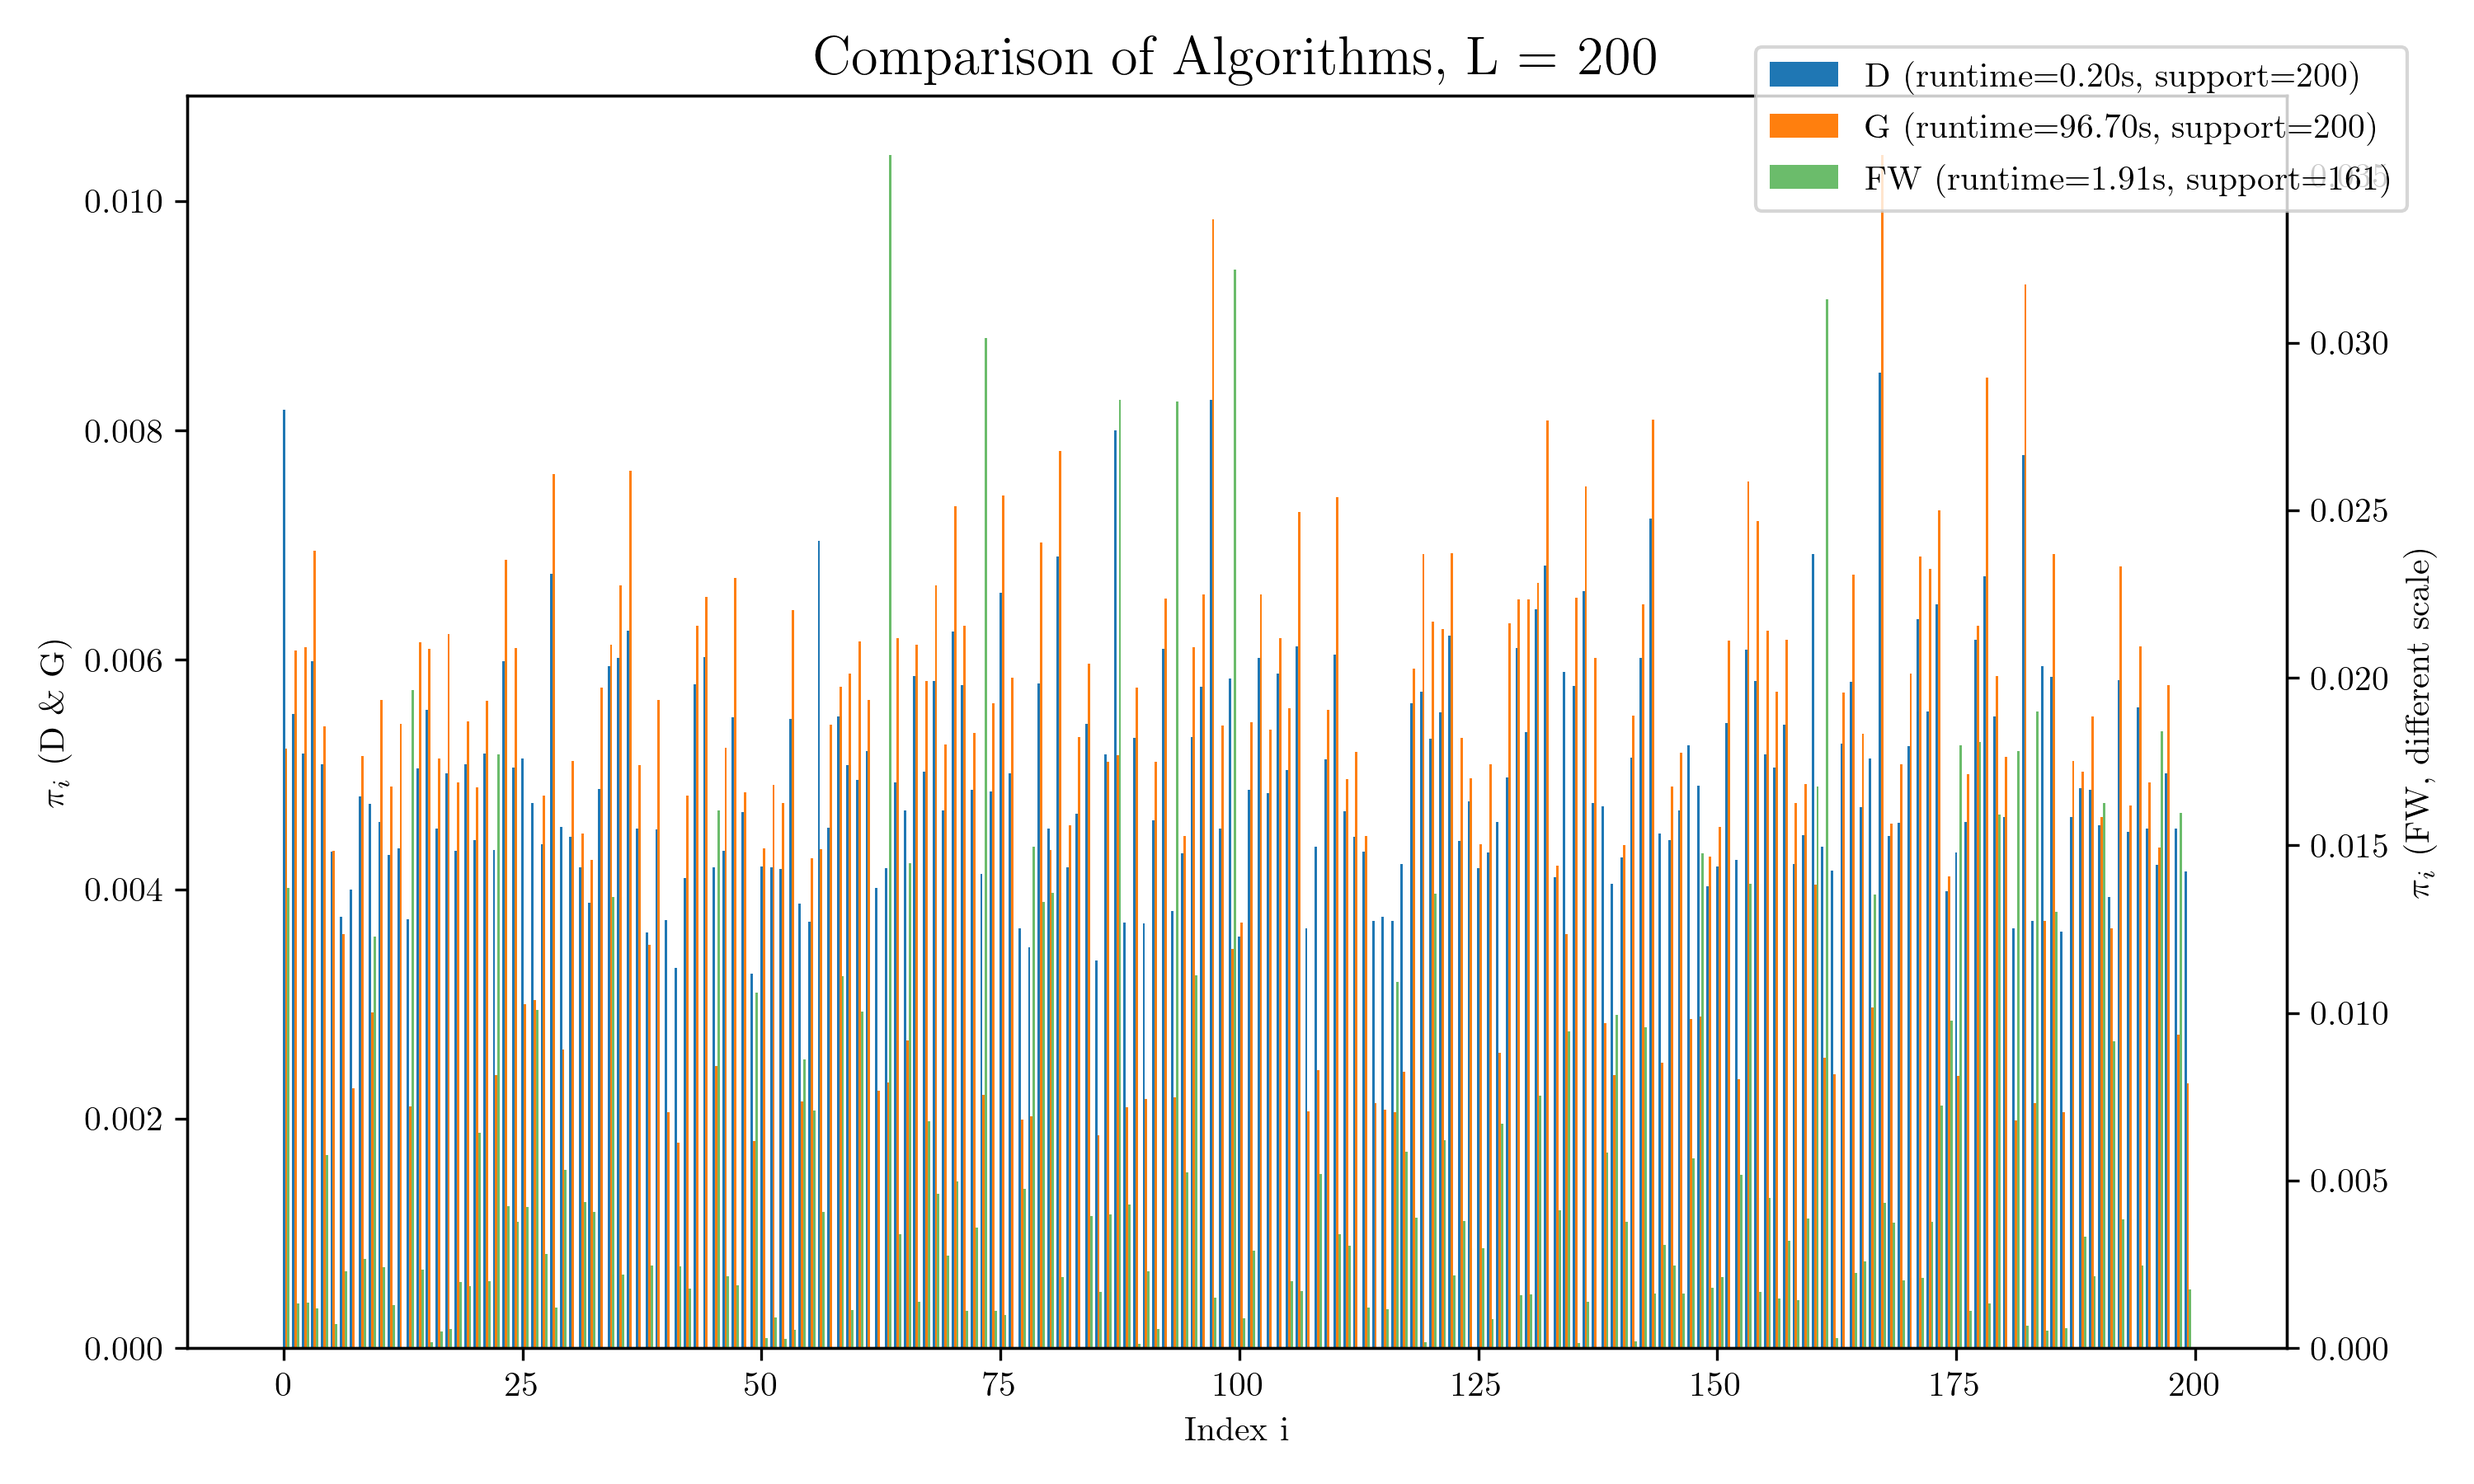
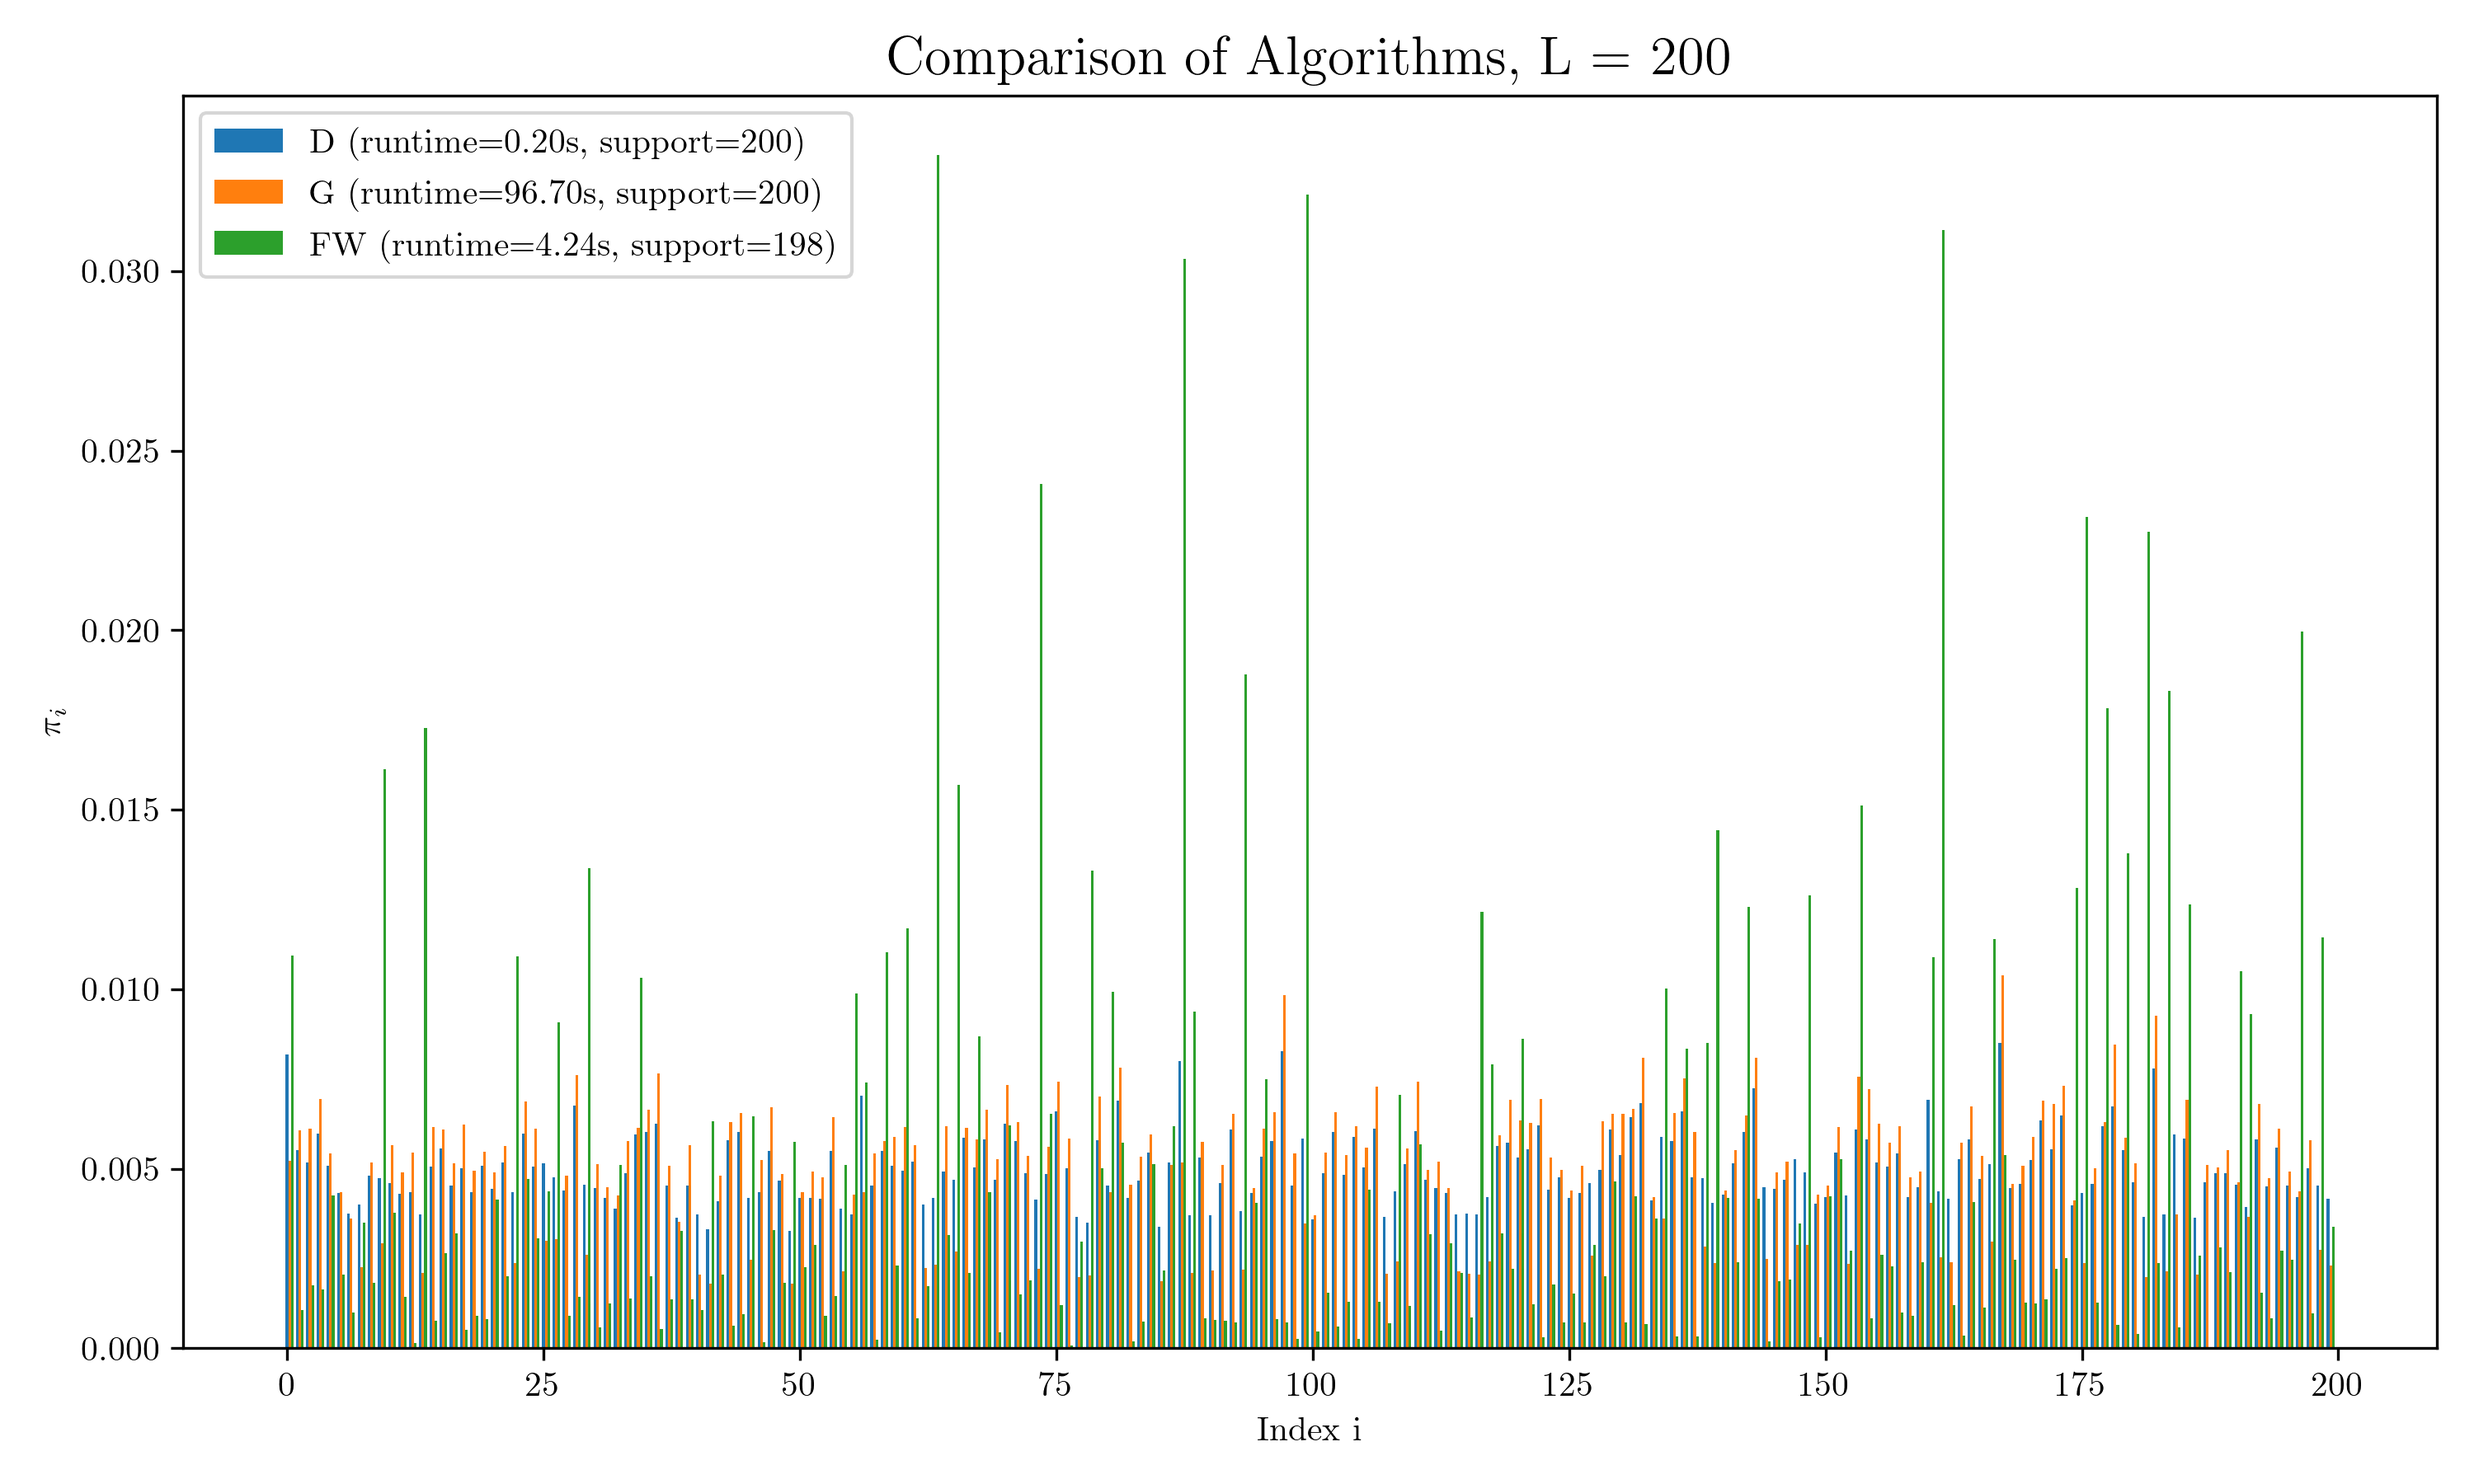
added histograms for comparison, confirmed algos are working as intended

diff --git a/Project_5/p5q31.py b/Project_5/p5q31.py
@@ -23,6 +23,10 @@ Hint: Use cp.log_det for the objective.
 """
 # YOUR CODE HERE
 
+# ========================= #
+#          UTILS            #
+# ========================= #
+
 import matplotlib as mpl
 import os
 import pickle
@@ -35,7 +39,7 @@ mpl.rcParams.update({
     })
 
 def create_plots(problem, results, L):
-    os.makedirs(f"Q3_1/Problem_{problem}", exist_ok=True)
+    os.makedirs(f"Project_5/Q3_1/Problem_{problem}", exist_ok=True)
     pi, runtime, support = results
     fig, ax = plt.subplots(figsize=(8,5))
     ax.bar(range(L), pi)
@@ -49,7 +53,7 @@ def create_plots(problem, results, L):
             multialignment='left')
     
     plt.tight_layout(rect=[0,0,1,0.95])
-    plt.savefig(f"Q3_1/Problem_{problem}/L_{L}.png", dpi=300)
+    plt.savefig(f"Project_5/Q3_1/Problem_{problem}/L_{L}.png", dpi=300)
 
 def save_results(results, filename="results_q31.pkl"):
     with open(filename, "wb") as f:
@@ -58,6 +62,20 @@ def save_results(results, filename="results_q31.pkl"):
 def load_results(filename="results_q31.pkl"):
     with open(filename, "rb") as f:
         return pickle.load(f)
+
+def create_histogram(results, problem, L, bins=30, title="Histogram of pi values"):
+    pi, runtime, support = results
+    plt.figure(figsize=(8, 5))
+    plt.hist(pi, bins=bins, edgecolor="black")
+    plt.xlabel(r"$\pi_i$")
+    plt.ylabel("Frequency")
+    plt.title(title)
+    plt.grid(alpha=0.3)
+    plt.savefig(f"Project_5/Q3_1/Histograms/{problem}_{L}.png", dpi=300)
+
+# ========================= #
+#          D-OPT            #
+# ========================= #
 
 def problem_d(A_all, d, K, n_repeats, L):
     L_max, _, _ = A_all.shape # = (400, 5, 2) which are L, d, K
@@ -91,6 +109,10 @@ def problem_d(A_all, d, K, n_repeats, L):
 # results = load_results()
 # for L in L_list:
 #     create_plots("D", results["D"][L], L)
+
+# results = load_results()
+# for L in L_list:
+#     create_histogram(results["D"][L], "D", L)
 
 # --------------------------------------------------------
 # G-optimal (CVXPY)
@@ -150,6 +172,10 @@ def problem_g(A_all, d, k, n_repeats, L):
 # for L in L_list:
 #     create_plots("G", results["G"][L], L)
 
+# results = load_results()
+# for L in L_list:
+#     create_histogram(results["G"][L], "G", L, bins=50)
+
 
 # -------------------------------------------------
 # Frank–Wolfe for D-opt
@@ -174,7 +200,9 @@ def problem_fw(A_all, d, k, n_repeats, epsilon, T, L):
         for t in range(T+1):
             V = 0
             for i in range(L):
+                # print((A_all[i] @ A_all[i].T).shape)
                 V += pi[i]*(A_all[i]@A_all[i].T)
+            V += 1e-8 * np.eye(d)
             V_inv = np.linalg.inv(V)
             traces = np.zeros(L) # we want to compare L traces
             for i in range(L):
@@ -195,18 +223,22 @@ def problem_fw(A_all, d, k, n_repeats, epsilon, T, L):
     results = (pi_mean, runtimes_mean, support) # stored in the dict with key L
     return results
 
-results = load_results()
-results.setdefault("FW", {})
-for L in L_list:
-    results["FW"][L] = problem_fw(A_all, d, K, n_repeats, epsilon, T, L)
-    save_results(results)
+# results = load_results()
+# results.setdefault("FW", {})
+# for L in L_list:
+#     results["FW"][L] = problem_fw(A_all, d, K, n_repeats, epsilon, T, L)
+#     save_results(results)
 
-results = load_results()
-for L in L_list:
-    create_plots("FW", results["FW"][L], L)
+# results = load_results()
+# for L in L_list:
+#     create_plots("FW", results["FW"][L], L)
+
+# results = load_results()
+# for L in L_list:
+#     create_histogram(results["FW"][L], "FW", L, bins=50)
 
 
-def compare_algos(results, L_list, save_dir="Q3_1/Comparison"):
+def compare_algos(results, L_list, save_dir="Project_5/Q3_1/Comparison"):
     os.makedirs(save_dir, exist_ok=True)
     algos = ["D", "G", "FW"]
     colors = {"D": "tab:blue", "G": "tab:orange", "FW": "tab:green"}
@@ -228,5 +260,5 @@ def compare_algos(results, L_list, save_dir="Q3_1/Comparison"):
         plt.tight_layout()
         plt.savefig(f"{save_dir}/Comparison_L_{L}.png", dpi=300)
 
-# results = load_results()
-# compare_algos(results, L_list)
+results = load_results()
+compare_algos(results, L_list)
